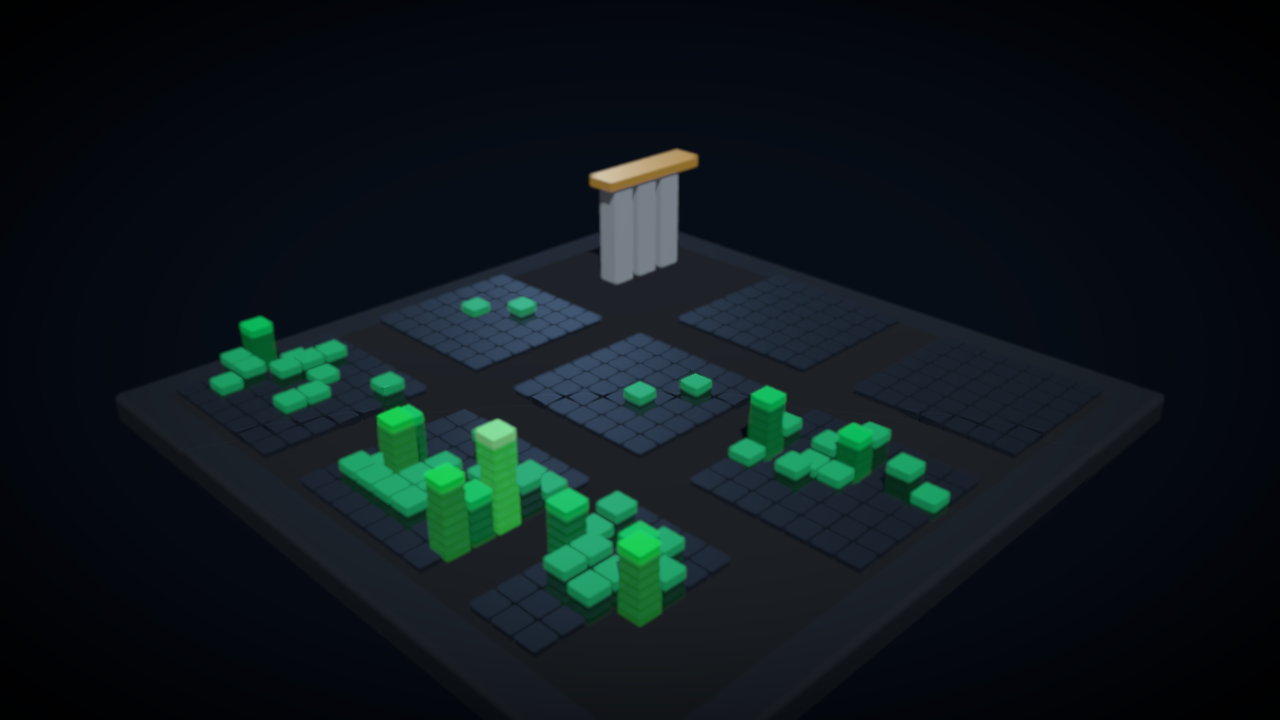
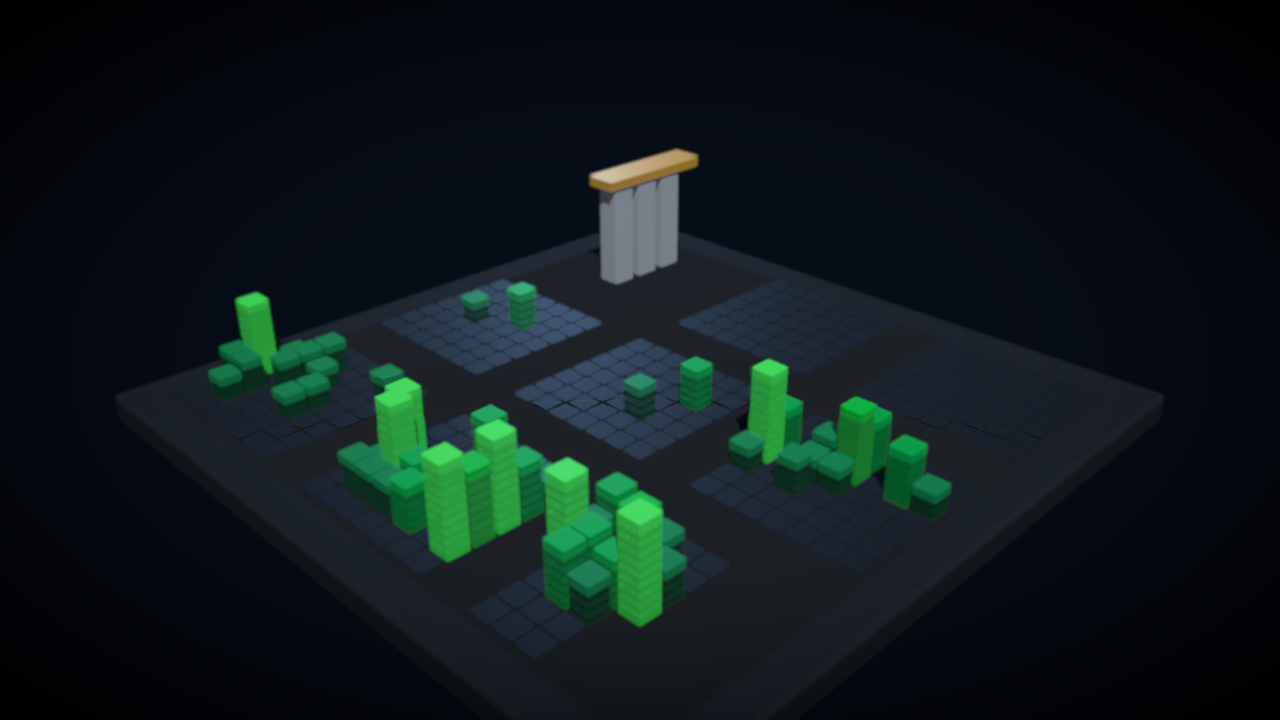
Scale heights to the 90th percentile and flatten empty plots
Real data exposed two problems the demo dataset hid. With 84% zero days, a
median active day of 2, and one 28-commit outlier:

- Scaling to max() let the single outlier set full height, so typical days got
  ~3 cubes and the city looked uniformly squat. Now scales to the 90th
  percentile of *active* days and clamps above it.
- A full-height cube on every zero day turned a sparse year into a grid of
  headstones. Zero days are now flat pavement tiles.

Changed region(s): [[0.1562, 0.3667, 0.75, 0.8861], [0.5312, 0.4278, 0.5625, 0.4583], [0.3125, 0.4583, 0.3438, 0.4889]]

diff --git a/src/scene/DataBuildings.tsx b/src/scene/DataBuildings.tsx
@@ -6,17 +6,20 @@ import type { Palette } from "../themes/types"
 import {
   BLOCK_ROWS,
   CELL_SIZE,
+  EMPTY_PLOT_FILL,
   MAX_VOXELS,
   VOXEL_FILL,
   VOXEL_H,
   bucket,
   cellPosition,
+  heightScaleRef,
   voxelCount,
 } from "../utils/grid"
 
 interface Voxel {
   key: string
   position: [number, number, number]
+  scaleY: number
   color: string
 }
 
@@ -35,22 +38,35 @@ function brighten(hex: string, amount: number): string {
 export function DataBuildings({ data, palette }: { data: ContributionData; palette: Palette }) {
   const voxels = useMemo<Voxel[]>(() => {
     const counts = data.weeks.flatMap((w) => w.days.map((d) => d.count))
-    const maxCount = counts.length ? Math.max(...counts) : 0
+    const scaleRef = heightScaleRef(counts)
 
     const out: Voxel[] = []
     data.weeks.forEach((week, weekIndex) => {
       week.days.forEach((day, row) => {
         if (row >= BLOCK_ROWS) return
         const { x, z } = cellPosition(weekIndex, row)
-        const base = palette.levels[bucket(day.count, maxCount)]
-        const stack = voxelCount(day.count, maxCount)
+        const base = palette.levels[bucket(day.count, scaleRef)]
 
+        if (day.count <= 0) {
+          // Flat pavement tile, not a building.
+          const h = VOXEL_H * VOXEL_FILL * EMPTY_PLOT_FILL
+          out.push({
+            key: `${weekIndex}-${row}-empty`,
+            position: [x, h / 2, z],
+            scaleY: EMPTY_PLOT_FILL,
+            color: base,
+          })
+          return
+        }
+
+        const stack = voxelCount(day.count, scaleRef)
         for (let i = 0; i < stack; i++) {
-          const isTop = i === stack - 1 && day.count > 0
+          const isTop = i === stack - 1
           out.push({
             key: `${weekIndex}-${row}-${i}`,
             position: [x, i * VOXEL_H + VOXEL_H / 2, z],
-            color: isTop ? brighten(base, 0.25) : base,
+            scaleY: 1,
+            color: isTop ? brighten(base, 0.12) : base,
           })
         }
       })
@@ -63,7 +79,7 @@ export function DataBuildings({ data, palette }: { data: ContributionData; palet
       <boxGeometry args={[CELL_SIZE, VOXEL_H * VOXEL_FILL, CELL_SIZE]} />
       <meshStandardMaterial roughness={0.42} metalness={0.08} />
       {voxels.map((v) => (
-        <Instance key={v.key} position={v.position} color={v.color} />
+        <Instance key={v.key} position={v.position} scale={[1, v.scaleY, 1]} color={v.color} />
       ))}
     </Instances>
   )

diff --git a/src/utils/grid.ts b/src/utils/grid.ts
@@ -60,11 +60,27 @@ export function bucket(count: number, maxCount: number): 0 | 1 | 2 | 3 | 4 {
   return 4
 }
 
-/** How many cubes to stack for a day. Square-root easing so a modest day still
- *  gets visible height -- linear scaling flattens the whole city whenever one
- *  outlier day dominates the year. */
-export function voxelCount(count: number, maxCount: number): number {
-  if (count <= 0 || maxCount <= 0) return 1 // empty plot: a single flat cube
-  const eased = Math.sqrt(count / maxCount)
+/** Empty plots are pavement, not buildings -- a full-height cube on every
+ *  zero day turns a sparse year into a grid of headstones. */
+export const EMPTY_PLOT_FILL = 0.28
+
+/** How many cubes to stack for a day.
+ *
+ *  `scaleRef` should be a high percentile of the *active* days, not the max: a
+ *  single 28-commit day against a median of 2 squashes the entire city flat.
+ *  Days at or above the reference clamp to full height. Square-root easing on
+ *  top of that keeps modest days visible. */
+export function voxelCount(count: number, scaleRef: number): number {
+  if (count <= 0 || scaleRef <= 0) return 1 // empty plot: one flat tile
+  const eased = Math.sqrt(Math.min(1, count / scaleRef))
   return Math.max(2, Math.round(eased * MAX_VOXELS))
+}
+
+/** 90th percentile of the non-zero days, with a floor so tiny datasets don't
+ *  produce a degenerate scale. */
+export function heightScaleRef(counts: number[]): number {
+  const active = counts.filter((c) => c > 0).sort((a, b) => a - b)
+  if (!active.length) return 0
+  const p90 = active[Math.min(active.length - 1, Math.floor(active.length * 0.9))]
+  return Math.max(3, p90)
 }
